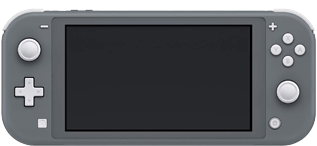
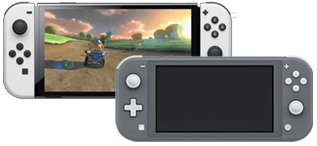
Added OLED

diff --git a/js/vercheck.js b/js/vercheck.js
@@ -6,13 +6,13 @@ function checkSerial() {
             var series = x.value.substring(1, 2).toUpperCase();
             var sn;
             
-            var failed='<div class="failed checker_p">Уязвимость устранена</div><p>Вы не сможете прошить приставку методом <a href="https://switch.customfw.xyz/fusee-gelee">Fusée Gelée</a>.</p><p>Перейдите в <strong>Системные настройки</strong> -> <strong>Система</strong> и обратите внимание на пункт "<strong>Текущая версия системы</strong>". Если <strong>версия системного ПО на консоли 4.1.0</strong>, то её можно прошить с помощью <a class="checker_a" href="http://switch.customfw.xyz/caffeine">Caffeine</a></p><img class="checker_img" src="img/system-version.jpg" alt="Версия системного ПО"><p>Если версия системного ПО выше указанной, то всё что вам остаётся - чиповка. Для вашей приставки подойдёт <strong>чип SX Core.</strong></p><p><strong>Подробнее про чипы <a href="https://switch.customfw.xyz/modchip">в руководстве</a>. Там же можно сделать заказ.</strong></p>';
+            var failed='<div class="failed checker_p">Уязвимость устранена</div><p>Вы не сможете прошить приставку методом <a href="https://switch.customfw.xyz/fusee-gelee">Fusée Gelée</a>.</p><p>Перейдите в <strong>Системные настройки</strong> -> <strong>Система</strong> и обратите внимание на пункт "<strong>Текущая версия системы</strong>". Если <strong>версия системного ПО на консоли 4.1.0</strong>, то её можно прошить с помощью <a class="checker_a" href="http://switch.customfw.xyz/caffeine">Caffeine</a></p><img class="checker_img" src="img/system-version.jpg" alt="Версия системного ПО"><p>Если версия системного ПО выше указанной, то всё что вам остаётся - чиповка. Для вашей приставки подойдёт <strong>чип SX или его аналога HWFLY.</strong></p><p><strong>Подробнее про чипы <a href="https://switch.customfw.xyz/modchip">в руководстве</a>. Там же можно сделать заказ.</strong></p>';
 
             var maybe='<div class="maybe checker_p">Уязвимость возможно устранена</div><p class="checker_p">Это значит, что невозможно определить с помощью серийного номера можно ли прошить приставку через <a class="checker_a" href="http://switch.customfw.xyz/fusee-gelee">Fusée Gelée</a> или нет. Единственный верный способ, который поможет понять прошивается ваша приставка или нет без покупки чипа - <a class="checker_a" href="http://switch.customfw.xyz/fusee-gelee">попробовать</a>. </p><p class="checker_p"><strong>Если уязвимость присутствует то приставка запустит переданный ей пейлоад.</strong> Если нет, экран останется чёрным, хотя в окне tegrarcmGUI и будет показано, что пейлоад проброшен успешно. В логе программы будет указано значение <strong>0x0000</strong>. Это означает, что вашу приставку нельзя прошить с помощью <a class="checker_a" href="http://switch.customfw.xyz/fusee-gelee">Fusée Gelée</a></p><img class="checker_img" src="img/tegra.png"></p><p class="checker_p">Если это ваш случай, то для вашей приставки подойдёт <strong>чип SX Core.</strong></p><p class="checker_p"><strong>Подробнее про чипы <a href="https://switch.customfw.xyz/modchip">в руководстве</a>. Там же можно сделать заказ.</strong></p>';
 
             var passed='<div class="passed checker_p">Уязвимость присутствует</div><p class="checker_p">Вы можете прошить свою приставку методом <a href="https://switch.customfw.xyz/fusee-gelee">Fusée Gelée</a>. Для этого перейдите по ссылке и внимательно следуйте инструкции!';
 
-            var new_revision='<div class="new_revision checker_p">Ваша приставка новой ревизии и прошивается только с помощью чипа SX Core</div><p class="checker_p"><strong>Подробнее про чипы <a href="https://switch.customfw.xyz/modchip">в руководстве</a>. Там же можно сделать заказ.</strong></p>';
+            var new_revision='<div class="new_revision checker_p">Ваша приставка новой ревизии и прошивается только с помощью чипа SX или HWFLY</div><p class="checker_p"><strong>Подробнее про чипы <a href="https://switch.customfw.xyz/modchip">в руководстве</a>. Там же можно сделать заказ.</strong></p>';
 
             var unknown='<div class="unknown checker_p">Нет информации по введённому серийному номеру</div><p class="checker_p">Проверьте, правильно ли вы ввели серийный номер</p><p class="checker_p">Если серийный номер всё-таки введён верно, значит серийников такого типа ещё нет в нашей базе. Возможно, приставка выпускалась эксклюзивно для китайского региона. </p><p class="checker_p">В любом случае, если серийник введён верно, то вашу приставку нельзя прошить с помощью <a class="checker_a" href="http://switch.customfw.xyz/fusee-gelee">Fusée Gelée</a>. Если это ваш случай, то для вашей приставки подойдёт <strong>чип SX Core.</strong></p><p class="checker_p"><strong>Подробнее про чипы <a href="https://switch.customfw.xyz/modchip">в руководстве</a>. Там же можно сделать заказ.</strong></p>';
 

diff --git a/index.html b/index.html
@@ -25,13 +25,13 @@
         </div>
         <div class="info">
           <h3> <a href="http://switch.customfw.xyz/modchip">Чиповка</a></h3>
-          <p>С помощью чиповки можно взломать вообще любой Nintendo Switch. Чипы на платформе Mariko (так называемая вторая ревизия) можно взломать только с помощью чиповки. Приставки первой ревизии с закрытой уязвимостью и с прошивкой выше, чем 4.1.0 тоже можно взломать только прочиповав. </p>
+          <p>С помощью чиповки можно взломать вообще любой Nintendo Switch. Чипы на платформе Mariko (так называемая вторая ревизия, приставки серии Lite и OLED) можно взломать только с помощью чиповки. Приставки первой ревизии с закрытой уязвимостью и с прошивкой выше, чем 4.1.0 тоже можно взломать только прочиповав. </p>
         </div>
         <div class="table__wrapper">
           <div class="table__container">
             <div class="table__ns__caption table__caption">Nintendo Switch</div>
             <div class="table__ns__body table__body" id="ns"><img class="table descriptionToggler" id="button" src="img/ns.png" alt="Nintendo Switch" data-result="result1"></div>
-            <div class="table__nsl__caption table__caption">Nintendo Switch Lite</div>
+            <div class="table__nsl__caption table__caption">Nintendo Switch Lite / OLED</div>
             <div class="table__nsl__body table__body" id="nsl"><img class="table descriptionToggler" src="img/nsl.png" alt="Nintendo Switch Lite" data-result="result2"></div>
           </div>
         </div>

diff --git a/js/main.js b/js/main.js
@@ -9,7 +9,7 @@
 		
 		this.result1Content = '<p class="checker_p"><strong>Введите первые 9 символов серийного номера консоли.</strong></p><p class="checker_p">Серийный номер консоли расположен на нижней грани самого планшета. Если приставка б\у, то убедитесь, что серийный номер на корпусе совпадает с тем, что указан в <strong>Системных настройках</strong> -> <strong>Система</strong> -> <strong>Серийные номера</strong>. Если после ввода серийника ничего не происходит, отключите блокировщик рекламы<div class="checker"><input class="inputtext" type="text" id="nxsn" name="country_code" pattern="[xX][aAkKjJtT][wWjJkKeE](1|4|7|9)[0-9]+" placeholder="XAW100000" onkeyup="checkSerial()"></div>';
 
-		this.result2Content = '<div class="new_revision checker_p">Nintendo Switch Lite прошивается только с помощью чипа SX Lite</div><p class="checker_p"><strong>Подробнее про чипы <a href="https://switch.customfw.xyz/modchip">в руководстве</a>.</strong></p>';
+		this.result2Content = '<div class="new_revision checker_p">Nintendo Switch Lite и Nintendo Switch OLED прошивается только с помощью чипа SX Lite или чипов линейки HWFLY</div><p class="checker_p"><strong>Подробнее про чипы <a href="https://switch.customfw.xyz/modchip">в руководстве</a>.</strong></p>';
 
 		this.resultEmpty = '';
 };
